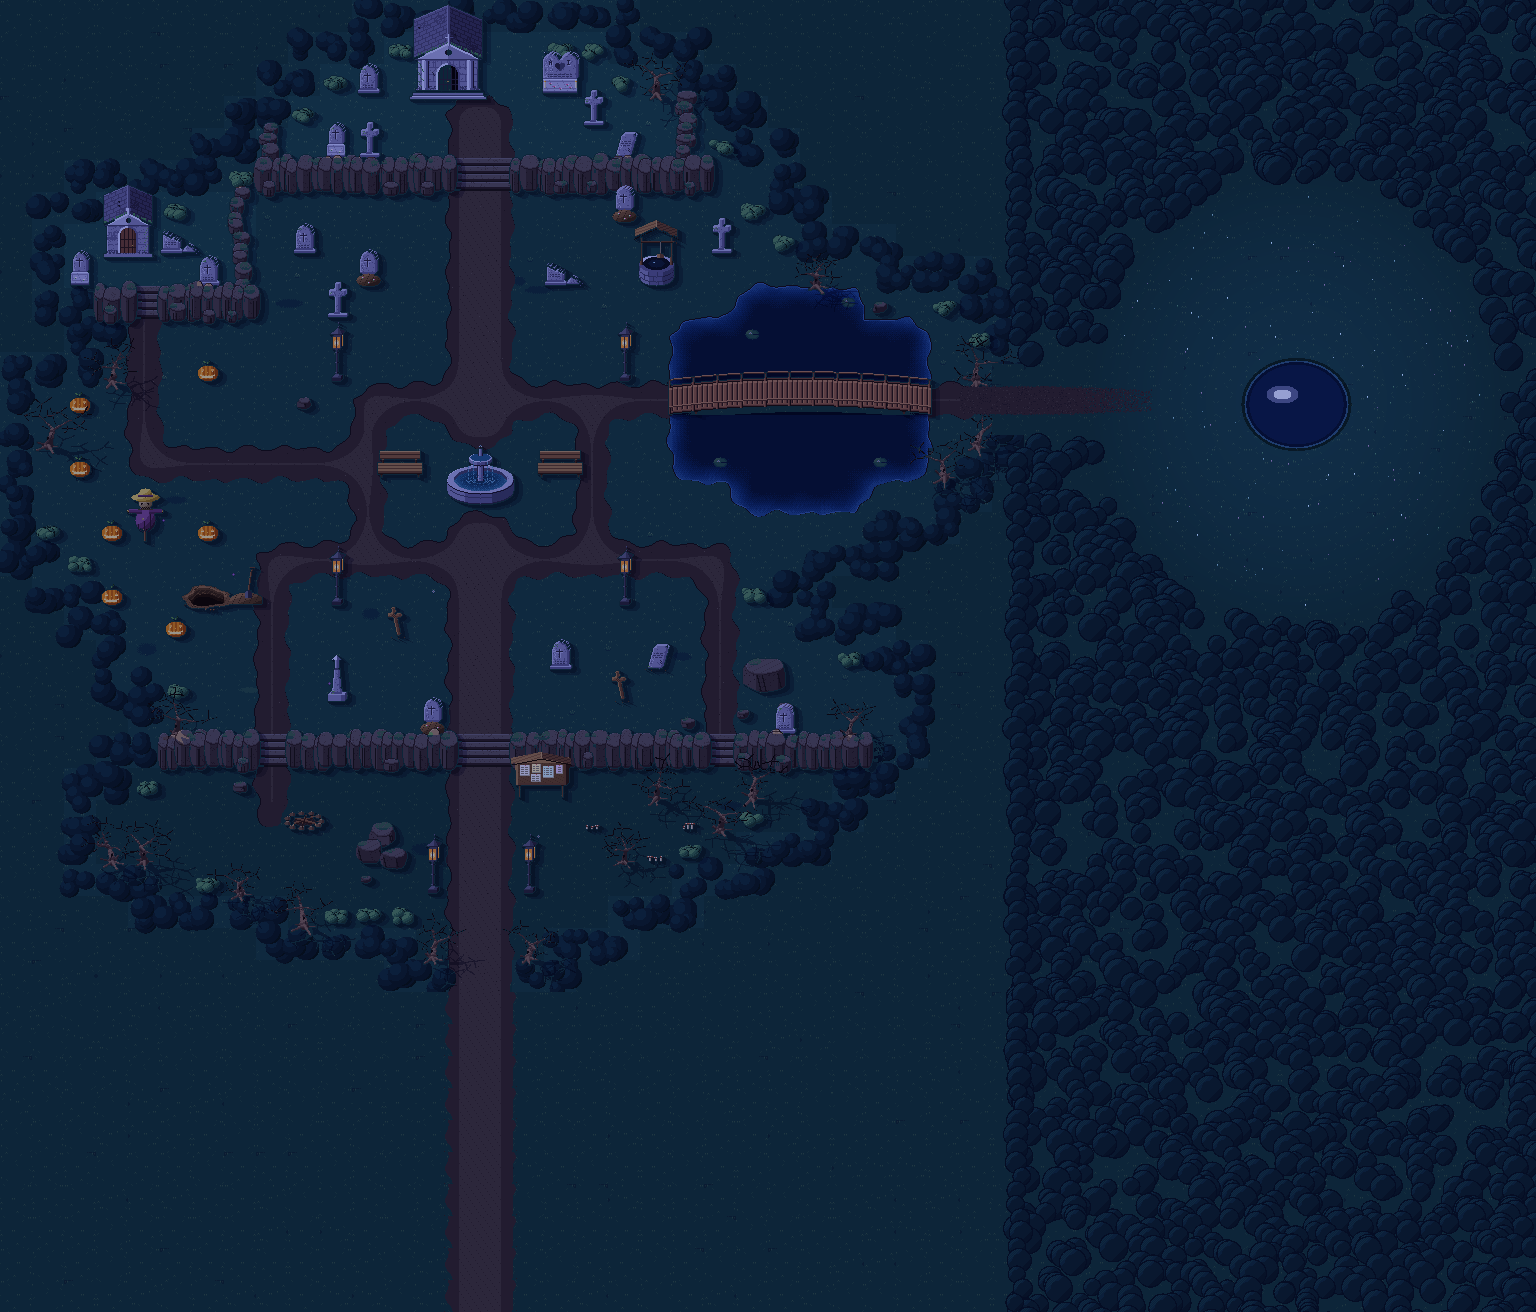
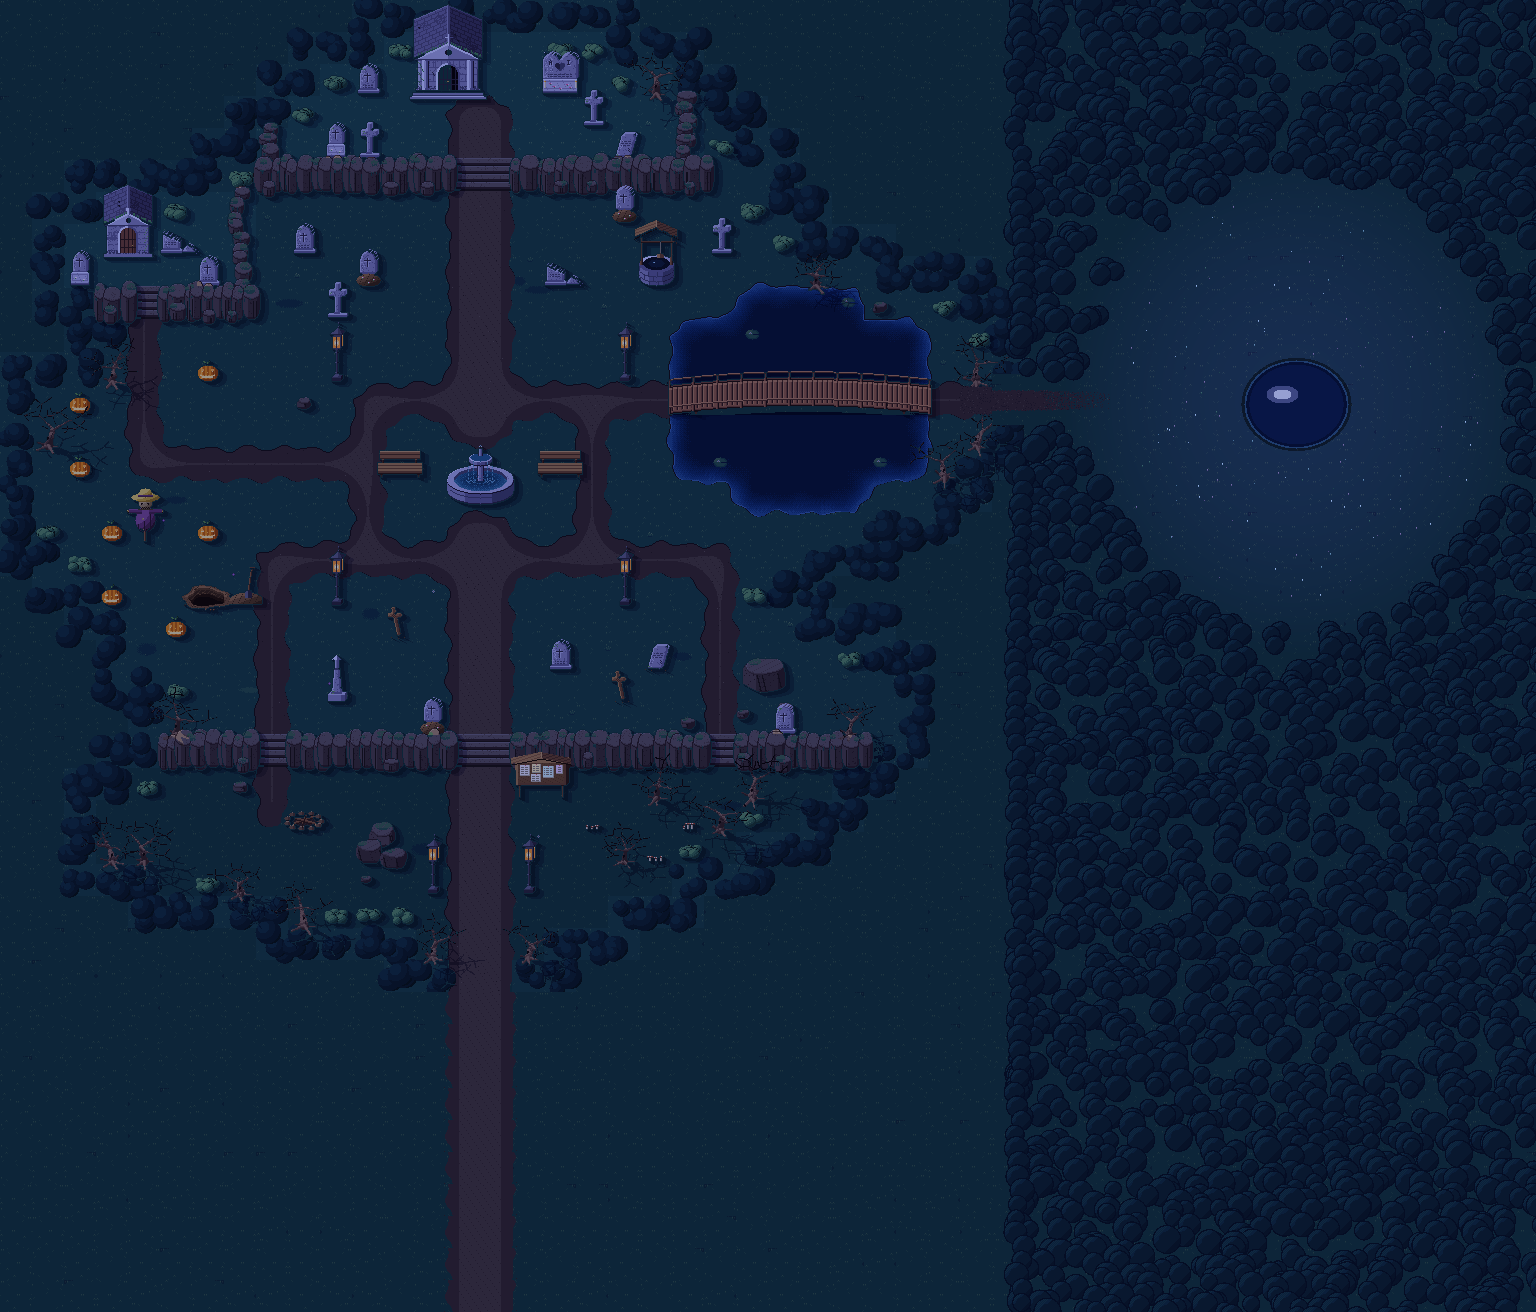
Claro: entrada más escondida y luz morada
Claude-Session: https://claude.ai/code/session_01F2MufxhJiicWErqgVh9gN8

diff --git a/game.src.html b/game.src.html
@@ -1391,7 +1391,7 @@ const GATE_T = new Set(["14,29","15,29","14,30","15,30"]);
 let gateOpenUntil = 0;
 const solidAt = (x,y) => GATE_T.has(x+","+y) || x<0||y<0||x>=W||y>=H||(SC.walk[y][x]!=="1"&&MAP[y][x]!=="m")||!!OBJ[x+","+y];
 const IMG = {};
-["suelo","objetos","fuego"].forEach(k=>{ const i=new Image(); i.onload=()=>{ IMG[k]=i; }; i.src="assets/"+k+".png?v=20261020b"; });
+["suelo","objetos","fuego"].forEach(k=>{ const i=new Image(); i.onload=()=>{ IMG[k]=i; }; i.src="assets/"+k+".png?v=20261020c"; });
 /* Solo el SÍ da personaje: los de QUIZÁ siguen de fantasma */
 const confirmed = r => !!r && r.attend==="si";
 const look = r => confirmed(r) ? r : {...r, char:"fantasma", color:"#cfc8e6", party:"", costume:"", ghost:true};
@@ -1816,13 +1816,13 @@ function render(now){
   g.globalCompositeOperation="lighter";
   if(camX+VW > 30*TS){ // luz fría y mágica del claro
     const glow=(x,y,r,col,a)=>{ const lg=g.createRadialGradient(x,y,0,x,y,r); lg.addColorStop(0,`rgba(${col},${a})`); lg.addColorStop(1,`rgba(${col},0)`); g.fillStyle=lg; g.fillRect(x-r,y-r,r*2,r*2); };
-    glow(CLARO.cx*TS-camX, CLARO.cy*TS+4-camY, 90, "90,200,255", .16+.04*Math.sin(t*1.3));
+    glow(CLARO.cx*TS-camX, CLARO.cy*TS+4-camY, 95, "160,110,255", .2+.05*Math.sin(t*1.3));
     CLARO.stones.forEach(([sx,sy],k)=>{ const pulse=.5+.5*Math.sin(t*1.7+k*1.3); glow(sx*TS+16-camX, sy*TS+30-MENHIR_SPR[k%2].height+20-camY, 22, "190,120,255", .18+.3*pulse);
       if(pulse>.2){ g.fillStyle=`rgba(220,170,255,${.35+.6*pulse})`; RUNES[k%2].forEach(([rx,ry])=>g.fillRect(sx*TS+5+rx-camX, sy*TS+30-MENHIR_SPR[k%2].height+3+ry+(k%2?0:2)-camY,1,1)); } });
-    CLARO.mush.forEach(([mx,my],k)=>glow(mx*TS+3-camX, my*TS+2-camY, 14, "110,230,255", .22+.1*Math.sin(t*2+k)));
+    CLARO.mush.forEach(([mx,my],k)=>glow(mx*TS+3-camX, my*TS+2-camY, 14, "150,170,255", .22+.1*Math.sin(t*2+k)));
     for(let i=0;i<22;i++){ const a=t*.25+i*2.39, rr=(i%7)*.8+1.2;
       const fx=(CLARO.cx+Math.cos(a+i)*rr*1.1+Math.sin(t*.7+i)*.4)*TS-camX, fy=(CLARO.cy+Math.sin(a*1.3+i)*rr+Math.cos(t*.5+i)*.3)*TS-camY;
-      if(Math.sin(t*2+i*1.7)<-.4) continue; g.fillStyle=i%3?"rgba(200,150,255,.9)":"rgba(140,240,255,.9)"; g.fillRect(Math.round(fx),Math.round(fy),2,2); }
+      if(Math.sin(t*2+i*1.7)<-.4) continue; g.fillStyle=i%4?"rgba(205,150,255,.9)":"rgba(160,210,255,.9)"; g.fillRect(Math.round(fx),Math.round(fy),2,2); }
     for(let i=0;i<3;i++){ // pista sutil: lucecitas en el hueco del seto
       const fx=(31.2+i*.5+Math.sin(t*.8+i*2)*.4)*TS-camX, fy=(11.9+Math.sin(t*1.1+i)*.5+i*.15)*TS-camY;
       if(Math.sin(t*1.5+i*2.1)>-.2){ glow(fx,fy,9,"190,140,255",.35); g.fillStyle="rgba(230,200,255,.95)"; g.fillRect(Math.round(fx),Math.round(fy),2,2); } }
@@ -1839,8 +1839,10 @@ function render(now){
     g.fillStyle="rgba(255,240,140,.9)"; g.fillRect(Math.round(fx),Math.round(fy),2,2); }
   if(camX+VW > 32*TS){ // niebla que se arrastra por el claro
     g.globalCompositeOperation="source-over";
+    { const X=CLARO.cx*TS-camX, Y=CLARO.cy*TS-camY, R=320; const lg=g.createRadialGradient(X,Y,40,X,Y,R); // velo morado de todo el claro
+      lg.addColorStop(0,"rgba(110,50,190,.22)"); lg.addColorStop(.75,"rgba(80,30,150,.16)"); lg.addColorStop(1,"rgba(80,30,150,0)"); g.fillStyle=lg; g.fillRect(X-R,Y-R,R*2,R*2); }
     for(let i=0;i<7;i++){ const fx=((i*3.1+t*.06*(i%2?1:-1))%1+1)%1, X=(34+fx*13)*TS-camX, Y=(6.5+((i*.37)%1)*12+Math.sin(t*.2+i)*.6)*TS-camY, R=70+20*(i%3);
-      const lg=g.createRadialGradient(X,Y,0,X,Y,R); lg.addColorStop(0,"rgba(190,180,230,.10)"); lg.addColorStop(1,"rgba(190,180,230,0)"); g.fillStyle=lg; g.fillRect(X-R,Y-R*.6,R*2,R*1.2); } }
+      const lg=g.createRadialGradient(X,Y,0,X,Y,R); lg.addColorStop(0,"rgba(200,170,240,.11)"); lg.addColorStop(1,"rgba(200,170,240,0)"); g.fillStyle=lg; g.fillRect(X-R,Y-R*.6,R*2,R*1.2); } }
   g.globalCompositeOperation="multiply"; g.drawImage(vig,0,0); g.globalCompositeOperation="source-over";
   // a pantalla
   ctx.imageSmoothingEnabled=false; ctx.fillStyle="#05070c"; ctx.fillRect(0,0,cw,ch);

diff --git a/index.html b/index.html
@@ -1410,7 +1410,7 @@ const GATE_T = new Set(["14,29","15,29","14,30","15,30"]);
 let gateOpenUntil = 0;
 const solidAt = (x,y) => GATE_T.has(x+","+y) || x<0||y<0||x>=W||y>=H||(SC.walk[y][x]!=="1"&&MAP[y][x]!=="m")||!!OBJ[x+","+y];
 const IMG = {};
-["suelo","objetos","fuego"].forEach(k=>{ const i=new Image(); i.onload=()=>{ IMG[k]=i; }; i.src="assets/"+k+".png?v=20261020b"; });
+["suelo","objetos","fuego"].forEach(k=>{ const i=new Image(); i.onload=()=>{ IMG[k]=i; }; i.src="assets/"+k+".png?v=20261020c"; });
 /* Solo el SÍ da personaje: los de QUIZÁ siguen de fantasma */
 const confirmed = r => !!r && r.attend==="si";
 const look = r => confirmed(r) ? r : {...r, char:"fantasma", color:"#cfc8e6", party:"", costume:"", ghost:true};
@@ -1835,13 +1835,13 @@ function render(now){
   g.globalCompositeOperation="lighter";
   if(camX+VW > 30*TS){ // luz fría y mágica del claro
     const glow=(x,y,r,col,a)=>{ const lg=g.createRadialGradient(x,y,0,x,y,r); lg.addColorStop(0,`rgba(${col},${a})`); lg.addColorStop(1,`rgba(${col},0)`); g.fillStyle=lg; g.fillRect(x-r,y-r,r*2,r*2); };
-    glow(CLARO.cx*TS-camX, CLARO.cy*TS+4-camY, 90, "90,200,255", .16+.04*Math.sin(t*1.3));
+    glow(CLARO.cx*TS-camX, CLARO.cy*TS+4-camY, 95, "160,110,255", .2+.05*Math.sin(t*1.3));
     CLARO.stones.forEach(([sx,sy],k)=>{ const pulse=.5+.5*Math.sin(t*1.7+k*1.3); glow(sx*TS+16-camX, sy*TS+30-MENHIR_SPR[k%2].height+20-camY, 22, "190,120,255", .18+.3*pulse);
       if(pulse>.2){ g.fillStyle=`rgba(220,170,255,${.35+.6*pulse})`; RUNES[k%2].forEach(([rx,ry])=>g.fillRect(sx*TS+5+rx-camX, sy*TS+30-MENHIR_SPR[k%2].height+3+ry+(k%2?0:2)-camY,1,1)); } });
-    CLARO.mush.forEach(([mx,my],k)=>glow(mx*TS+3-camX, my*TS+2-camY, 14, "110,230,255", .22+.1*Math.sin(t*2+k)));
+    CLARO.mush.forEach(([mx,my],k)=>glow(mx*TS+3-camX, my*TS+2-camY, 14, "150,170,255", .22+.1*Math.sin(t*2+k)));
     for(let i=0;i<22;i++){ const a=t*.25+i*2.39, rr=(i%7)*.8+1.2;
       const fx=(CLARO.cx+Math.cos(a+i)*rr*1.1+Math.sin(t*.7+i)*.4)*TS-camX, fy=(CLARO.cy+Math.sin(a*1.3+i)*rr+Math.cos(t*.5+i)*.3)*TS-camY;
-      if(Math.sin(t*2+i*1.7)<-.4) continue; g.fillStyle=i%3?"rgba(200,150,255,.9)":"rgba(140,240,255,.9)"; g.fillRect(Math.round(fx),Math.round(fy),2,2); }
+      if(Math.sin(t*2+i*1.7)<-.4) continue; g.fillStyle=i%4?"rgba(205,150,255,.9)":"rgba(160,210,255,.9)"; g.fillRect(Math.round(fx),Math.round(fy),2,2); }
     for(let i=0;i<3;i++){ // pista sutil: lucecitas en el hueco del seto
       const fx=(31.2+i*.5+Math.sin(t*.8+i*2)*.4)*TS-camX, fy=(11.9+Math.sin(t*1.1+i)*.5+i*.15)*TS-camY;
       if(Math.sin(t*1.5+i*2.1)>-.2){ glow(fx,fy,9,"190,140,255",.35); g.fillStyle="rgba(230,200,255,.95)"; g.fillRect(Math.round(fx),Math.round(fy),2,2); } }
@@ -1858,8 +1858,10 @@ function render(now){
     g.fillStyle="rgba(255,240,140,.9)"; g.fillRect(Math.round(fx),Math.round(fy),2,2); }
   if(camX+VW > 32*TS){ // niebla que se arrastra por el claro
     g.globalCompositeOperation="source-over";
+    { const X=CLARO.cx*TS-camX, Y=CLARO.cy*TS-camY, R=320; const lg=g.createRadialGradient(X,Y,40,X,Y,R); // velo morado de todo el claro
+      lg.addColorStop(0,"rgba(110,50,190,.22)"); lg.addColorStop(.75,"rgba(80,30,150,.16)"); lg.addColorStop(1,"rgba(80,30,150,0)"); g.fillStyle=lg; g.fillRect(X-R,Y-R,R*2,R*2); }
     for(let i=0;i<7;i++){ const fx=((i*3.1+t*.06*(i%2?1:-1))%1+1)%1, X=(34+fx*13)*TS-camX, Y=(6.5+((i*.37)%1)*12+Math.sin(t*.2+i)*.6)*TS-camY, R=70+20*(i%3);
-      const lg=g.createRadialGradient(X,Y,0,X,Y,R); lg.addColorStop(0,"rgba(190,180,230,.10)"); lg.addColorStop(1,"rgba(190,180,230,0)"); g.fillStyle=lg; g.fillRect(X-R,Y-R*.6,R*2,R*1.2); } }
+      const lg=g.createRadialGradient(X,Y,0,X,Y,R); lg.addColorStop(0,"rgba(200,170,240,.11)"); lg.addColorStop(1,"rgba(200,170,240,0)"); g.fillStyle=lg; g.fillRect(X-R,Y-R*.6,R*2,R*1.2); } }
   g.globalCompositeOperation="multiply"; g.drawImage(vig,0,0); g.globalCompositeOperation="source-over";
   // a pantalla
   ctx.imageSmoothingEnabled=false; ctx.fillStyle="#05070c"; ctx.fillRect(0,0,cw,ch);
